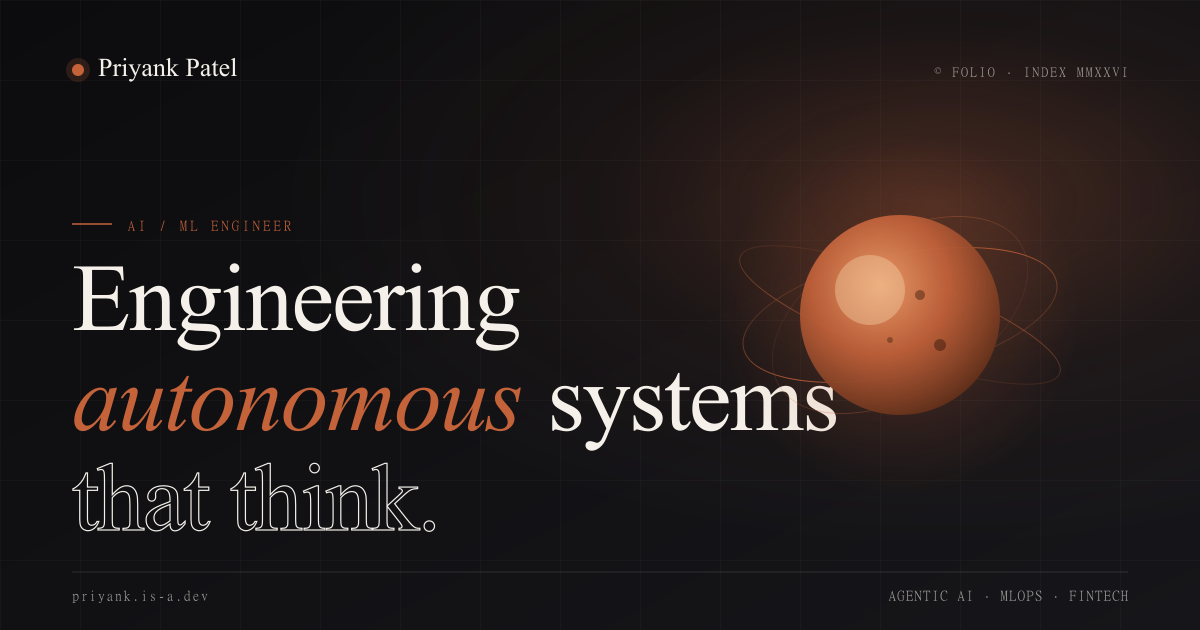
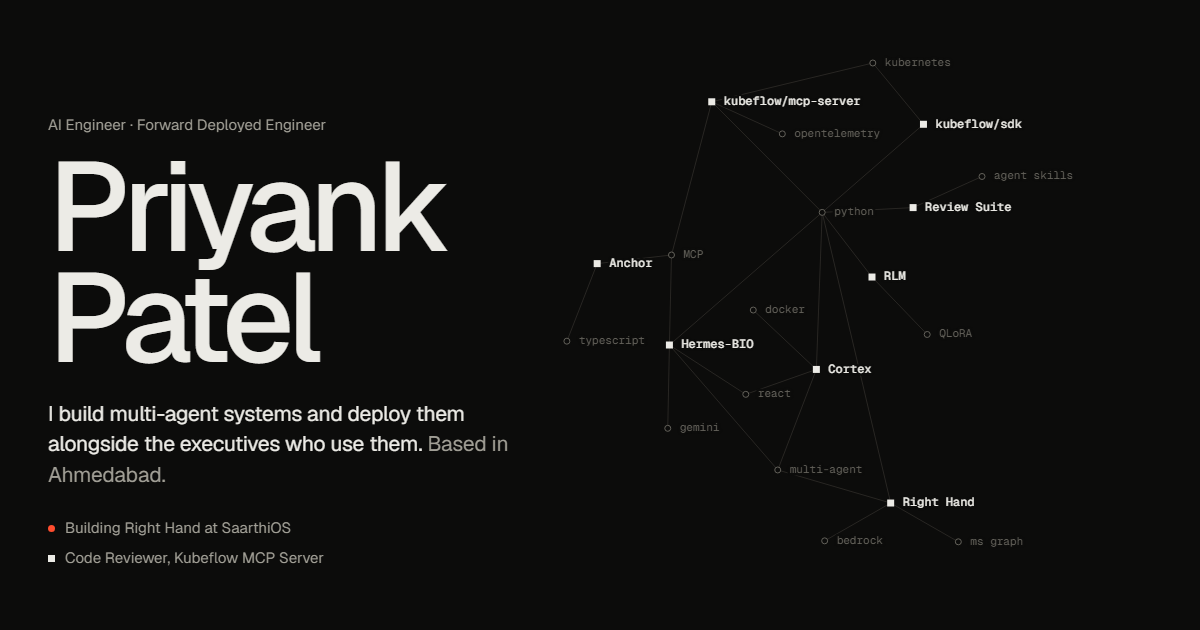
Tighten graph layout and trim copy
- Graph: crossing-free layout for desktop and mobile, label knockouts,
  squares jump to their exact project, pauses off screen
- Mobile: graph sits above the intro instead of behind it
- Open source cut to one paragraph; ACPC removed; Review Suite, Cortex
  and BioAgent added as smaller entries with a link to all repos
- Name decode no longer reflows; focus styles; anchor offsets
- New social preview image from the current hero

diff --git a/index.html b/index.html
@@ -97,7 +97,22 @@ h1{font-weight:500;font-size:clamp(56px,10.5vw,148px);line-height:.88;letter-spa
 .sq{width:7px;height:7px;background:var(--fg)}
 @keyframes ping{0%{box-shadow:0 0 0 0 color-mix(in srgb,var(--red) 60%,transparent)}70%{box-shadow:0 0 0 8px transparent}100%{box-shadow:0 0 0 0 transparent}}
 .hint{position:absolute;right:0;bottom:56px;z-index:2;font-family:var(--mono);font-size:11px;color:var(--faint);text-align:right;line-height:1.7}
-@media (max-width:820px){.hint{display:none}#graph{opacity:.45}}
+@media (max-width:820px){.hint{display:none}.hero{min-height:0;display:block;padding-block:0 48px}#graph{position:relative;height:440px;margin-inline:-8px;width:calc(100% + 16px)}.hero-text{margin-top:4px}}
+h1 .ch{display:inline-block;text-align:center}
+section[id]{scroll-margin-top:64px}
+:focus-visible{outline:2px solid var(--red);outline-offset:3px;border-radius:2px}
+.proj li{transition:background-color .6s}
+.proj li.flash,.more li.flash{background:var(--redsoft)}
+.more-h{font-size:14px;color:var(--faint);margin:36px 0 4px}
+.more{list-style:none;padding:0;margin:0;border-top:1px solid var(--line)}
+.more li{border-bottom:1px solid var(--line);transition:background-color .6s}
+.more a{display:grid;grid-template-columns:150px minmax(0,1fr) 20px;gap:24px;align-items:baseline;padding:14px 0}
+.more b{font-weight:500;font-size:16px;transition:color .2s}
+.more span.d{color:var(--dim);font-size:15px;line-height:1.5}
+.more a:hover b,.more a:hover .arrow{color:var(--red)}
+.all{display:inline-block;margin-top:18px;font-size:14px;color:var(--dim);border-bottom:1px solid var(--line2)}
+.all:hover{color:var(--red);border-color:var(--red)}
+@media (max-width:820px){.more a{grid-template-columns:1fr;gap:4px}}
 section.s{border-top:1px solid var(--line);padding-block:64px;display:grid;grid-template-columns:220px minmax(0,1fr);gap:24px}
 .s-label{font-size:14px;color:var(--faint)}
 .s-label b{display:block;color:var(--fg);font-weight:500;font-size:15px;margin-bottom:2px}
@@ -176,7 +191,7 @@ body{margin:0}
         <a href="#oss"><span class="sq"></span>Code Reviewer, Kubeflow MCP Server</a>
       </div>
     </div>
-    <div class="hint">every node is something I built<br>hover to trace · click to jump</div>
+    <div class="hint">squares are things I built · circles are what they’re built with<br>hover to trace · click a square to jump to it</div>
   </section>
 
   <section class="s" id="work">
@@ -201,27 +216,32 @@ body{margin:0}
     <div class="s-body">
       <h2>Code Reviewer, Kubeflow MCP Server</h2>
       <div class="meta">Kubeflow organization member · <a href="https://github.com/kubeflow/mcp-server" target="_blank" rel="noopener">mcp-server</a> · <a href="https://github.com/kubeflow/sdk" target="_blank" rel="noopener">sdk</a></div>
-      <p>On <b>mcp-server</b> I added OpenTelemetry tracing for tool calls and a confirmation gate before a training job can be modified, capped memory while streaming job logs, fixed runtime-metadata and OpenShift permission bugs, and extended the Kubernetes E2E suite and CI checks.</p>
-      <p>On the <b>SDK</b> I fixed trainer status never reaching <code>TRAINJOB_COMPLETE</code>, and made dataset and model initializers run in parallel so jobs start sooner.</p>
+      <p>I review changes to Kubeflow’s MCP server, which lets AI agents run and manage training jobs on Kubernetes. My own work there and in the Kubeflow SDK is mostly about making those jobs observable and safe to operate.</p>
     </div>
   </section>
 
   <section class="s" id="projects">
     <div class="s-label"><b>Projects</b>Built on my own time</div>
+    <div>
     <ul class="proj">
-      <li><a href="https://anchormem.me/" target="_blank" rel="noopener">
+      <li id="p-anc"><a href="https://anchormem.me/" target="_blank" rel="noopener">
         <div><h3>Anchor</h3><p>A local-first MCP server that gives coding agents shared memory across sessions. Claude Code, Cursor, Cline and Codex start from the same facts and decisions. Stale entries are superseded and secrets are redacted before anything is written.</p><div class="stack">TypeScript · MCP · SQLite FTS5 · npm</div></div>
         <div class="metric"><b>44×</b><span>context compression,<br>100% critical facts kept</span></div><span class="arrow">↗</span></a></li>
-      <li><a href="https://github.com/priyank766/Hermes-BIO" target="_blank" rel="noopener">
+      <li id="p-bio"><a href="https://github.com/priyank766/Hermes-BIO" target="_blank" rel="noopener">
         <div><h3>Hermes-BIO</h3><p>A drug-discovery agent that chains UniProt, OpenTargets, RCSB PDB, AlphaFold DB and ChEMBL through one Gemini function-calling loop. Runs from a CLI, a React workspace, or as an MCP server.</p><div class="stack">FastAPI · Gemini · FastMCP · RDKit · React</div></div>
         <div class="metric"><b>6/6</b><span>textbook targets found,<br>about 38 s each</span></div><span class="arrow">↗</span></a></li>
-      <li><a href="https://priyank766.github.io/RLM/" target="_blank" rel="noopener">
-        <div><h3>RLM</h3><p>Reproduced Recursive Language Models (Zhang et al., 2025) with a 2B model on a 6 GB laptop GPU, then fine-tuned it with QLoRA on its own trajectories, with a Muon vs AdamW ablation.</p><div class="stack">Python · Ollama · Qwen · QLoRA · Muon</div></div>
+      <li id="p-rlm"><a href="https://priyank766.github.io/RLM/" target="_blank" rel="noopener">
+        <div><h3>RLM</h3><p>Reproduced Recursive Language Models (Zhang et al., 2025) with a 2B model on a 6 GB laptop GPU. The document sits in a Python REPL instead of the prompt, and the model writes code to search it and calls itself on the pieces.</p><div class="stack">Python · Ollama · Qwen · QLoRA</div></div>
         <div class="metric"><b>67%</b><span>needle found at 64K,<br>vs 33% standard</span></div><span class="arrow">↗</span></a></li>
-      <li><a href="https://drive.google.com/file/d/12-Fwb-HAAFNL1H2du_D1ZNOQo-NFkEkR/view?usp=sharing" target="_blank" rel="noopener">
-        <div><h3>ACPC Admissions Assistant</h3><p>A trilingual voice and text assistant for Gujarat's B.E./B.Tech admissions, built end to end in one month and presented to state officials.</p><div class="stack">RAG · STT/TTS · FastAPI · React</div></div>
-        <div class="metric"><b>Letter</b><span>of Appreciation from the<br>Commissioner of Technical Education</span></div><span class="arrow">↗</span></a></li>
     </ul>
+    <p class="more-h">Also on GitHub</p>
+    <ul class="more">
+      <li id="p-ors"><a href="https://priyank766.github.io/OpenSource-SKILL/" target="_blank" rel="noopener"><b>Review Suite</b><span class="d">Eight agent skills that review pull requests like a maintainer: read the change closely, score every finding, and post only the few worth a comment.</span><span class="arrow">↗</span></a></li>
+      <li id="p-cortex"><a href="https://github.com/priyank766/Cortex" target="_blank" rel="noopener"><b>Cortex</b><span class="d">An agent workspace that works inside a real project folder, with scoped file access, a Docker-sandboxed shell behind approvals, and every tool call streamed to the UI.</span><span class="arrow">↗</span></a></li>
+      <li id="p-bioagent"><a href="https://github.com/priyank766/BioAgent-ALPHAFOLD" target="_blank" rel="noopener"><b>BioAgent</b><span class="d">A LangGraph research agent that pulls AlphaFold structures, finds binding pockets and runs docking from a plain-language request.</span><span class="arrow">↗</span></a></li>
+    </ul>
+    <a class="all" href="https://github.com/priyank766?tab=repositories" target="_blank" rel="noopener">All repositories ↗</a>
+    </div>
   </section>
 
   <section class="contact" id="contact">
@@ -254,42 +274,48 @@ addEventListener('scroll',()=>{$('#bar').classList.toggle('scrolled',scrollY>10)
   let cur=null;['work','oss','projects','contact'].forEach(id=>{if(document.getElementById(id).getBoundingClientRect().top<innerHeight*.4)cur=id});
   document.querySelectorAll('nav.links a').forEach(a=>a.classList.toggle('on',a.getAttribute('href')==='#'+cur))},{passive:true});
 const nm=$('#name'),finalTxt=nm.textContent;
-if(!reduce){const glyph='01<>/{}[]#*+=_';let f=0;const id=setInterval(()=>{f++;
-  nm.textContent=[...finalTxt].map((c,i)=>c===' '?' ':(i<f/2?c:glyph[(Math.random()*glyph.length)|0])).join('');
-  if(f/2>=finalTxt.length){clearInterval(id);nm.textContent=finalTxt}},28)}
+if(!reduce){const letters=[...finalTxt.replace(/ /g,'')];
+  nm.innerHTML=[...finalTxt].map(c=>c===' '?' ':'<span class="ch">'+c+'</span>').join('');
+  const chs=[...nm.querySelectorAll('.ch')];
+  (document.fonts?document.fonts.ready:Promise.resolve()).then(()=>{
+    chs.forEach(c=>c.style.width=c.getBoundingClientRect().width+'px');
+    const glyph='01<>/{}[]#*+=_';let f=0;const id=setInterval(()=>{f++;
+      chs.forEach((c,i)=>c.textContent=i<f/2?letters[i]:glyph[(Math.random()*glyph.length)|0]);
+      if(f/2>=chs.length){clearInterval(id);nm.textContent=finalTxt}},28)})}
 const toast=m=>{const t=$('#toast');t.textContent=m;t.hidden=false;clearTimeout(toast.t);toast.t=setTimeout(()=>t.hidden=true,1600)};
 const copyMail=()=>{const a='priyank8445@gmail.com';(navigator.clipboard?navigator.clipboard.writeText(a):Promise.reject()).then(()=>toast('Email copied')).catch(()=>{const r=document.createRange();r.selectNodeContents($('#addr'));const s=getSelection();s.removeAllRanges();s.addRange(r);toast('Selected, press Ctrl+C')})};
 $('#copy').onclick=copyMail;
 
 const cv=$('#graph'),g=cv.getContext('2d');
+const D={rh:[.78,.919],kmcp:[.349,.081],ksdk:[.859,.128],anc:[.073,.419],bio:[.247,.589],rlm:[.735,.447],ors:[.834,.302],cortex:[.601,.64],agents:[.508,.85],mcp:[.252,.401],py:[.615,.312],bed:[.621,.998],graph:[.943,1],k8s:[.737,0],ts:[0,.581],ft:[.868,.567],otel:[.519,.148],gem:[.243,.763],docker:[.449,.516],skills:[1,.237],react:[.431,.692]};
+const M={rh:[.45,.854],kmcp:[.512,0],ksdk:[.03,.162],anc:[1,.415],bio:[.652,.615],rlm:[.19,.374],ors:[0,.794],cortex:[.407,.539],agents:[.452,.693],mcp:[.852,.536],py:[.171,.592],bed:[.537,1],graph:[.661,.795],k8s:[.12,.075],ts:[.915,.268],ft:[.244,.22],otel:[.516,.157],gem:[.852,.694],docker:[.419,.381],skills:[.131,.928],react:[.621,.459]};
 const N=[
- {id:'rh',l:'Right Hand',k:'w',to:'#work',x:.70,y:.20},
- {id:'kmcp',l:'kubeflow/mcp-server',k:'w',to:'#oss',x:.88,y:.42},
- {id:'ksdk',l:'kubeflow/sdk',k:'w',to:'#oss',x:.80,y:.70},
- {id:'anc',l:'Anchor',k:'w',to:'#projects',x:.60,y:.52},
- {id:'bio',l:'Hermes-BIO',k:'w',to:'#projects',x:.52,y:.18},
- {id:'rlm',l:'RLM',k:'w',to:'#projects',x:.95,y:.14},
- {id:'acpc',l:'ACPC',k:'w',to:'#projects',x:.64,y:.84},
- {id:'agents',l:'multi-agent',x:.79,y:.06},{id:'mcp',l:'MCP',x:.75,y:.46},{id:'py',l:'python',x:.91,y:.62},
- {id:'bed',l:'bedrock',x:.58,y:.32},{id:'graph',l:'ms graph',x:.86,y:.27},{id:'rag',l:'RAG',x:.54,y:.70},
- {id:'k8s',l:'kubernetes',x:.96,y:.82},{id:'ts',l:'typescript',x:.48,y:.42},{id:'ft',l:'QLoRA',x:.99,y:.32},
- {id:'voice',l:'STT/TTS',x:.76,y:.94},{id:'otel',l:'opentelemetry',x:.70,y:.62},{id:'gem',l:'gemini',x:.44,y:.08}
-];
-const E=[['rh','agents'],['rh','bed'],['rh','graph'],['rh','py'],['kmcp','mcp'],['kmcp','k8s'],['kmcp','py'],['kmcp','otel'],
- ['ksdk','k8s'],['ksdk','py'],['anc','mcp'],['anc','ts'],['bio','agents'],['bio','mcp'],['bio','gem'],['bio','py'],
- ['rlm','ft'],['rlm','py'],['rlm','agents'],['acpc','rag'],['acpc','voice'],['acpc','py'],['rh','rag']];
+ {id:'rh',l:'Right Hand',k:'w',to:'#work'},{id:'kmcp',l:'kubeflow/mcp-server',k:'w',to:'#oss'},{id:'ksdk',l:'kubeflow/sdk',k:'w',to:'#oss'},
+ {id:'anc',l:'Anchor',k:'w',to:'#p-anc'},{id:'bio',l:'Hermes-BIO',k:'w',to:'#p-bio'},{id:'rlm',l:'RLM',k:'w',to:'#p-rlm'},
+ {id:'ors',l:'Review Suite',k:'w',to:'#p-ors'},{id:'cortex',l:'Cortex',k:'w',to:'#p-cortex'},
+ {id:'agents',l:'multi-agent'},{id:'mcp',l:'MCP'},{id:'py',l:'python'},{id:'bed',l:'bedrock'},{id:'graph',l:'ms graph'},{id:'k8s',l:'kubernetes'},
+ {id:'ts',l:'typescript'},{id:'ft',l:'QLoRA'},{id:'otel',l:'opentelemetry'},{id:'gem',l:'gemini'},{id:'docker',l:'docker'},{id:'skills',l:'agent skills'},{id:'react',l:'react'}];
+const E=[['rh','agents'],['rh','bed'],['rh','graph'],['rh','py'],['kmcp','mcp'],['kmcp','k8s'],['kmcp','py'],['kmcp','otel'],['ksdk','k8s'],['ksdk','py'],
+ ['anc','mcp'],['anc','ts'],['bio','agents'],['bio','mcp'],['bio','gem'],['bio','py'],['bio','react'],['rlm','ft'],['rlm','py'],['ors','skills'],['ors','py'],
+ ['cortex','agents'],['cortex','docker'],['cortex','py'],['cortex','react']];
 const byId={};N.forEach(n=>{byId[n.id]=n;n.vx=0;n.vy=0;n.ph=Math.random()*6.28});
 const edges=E.map(([a,b])=>({a:byId[a],b:byId[b],p:[]}));
 let W=0,H=0,mx=-1e4,my=-1e4,hover=null;
 function size(){const r=cv.getBoundingClientRect(),d=Math.min(2,devicePixelRatio||1);W=r.width;H=r.height;cv.width=W*d;cv.height=H*d;g.setTransform(d,0,0,d,0,0);
-  const mobile=W<820;N.forEach(n=>{const hx=mobile?(.04+(n.x-.44)/.56*.78):n.x;n.hx=Math.max(.04,Math.min(.97,hx))*W;n.hy=(mobile?.06+n.y*.5:.08+n.y*.84)*H;if(n.px==null){n.px=n.hx;n.py=n.hy}})}
+  const mobile=W<820;let bx,by,bw,bh;
+  if(mobile){bx=14;by=22;bw=W-14-96;bh=H-44}else{bx=W*.47;by=H*.1;bw=W-bx-170;bh=H*.76}
+  N.forEach(n=>{const q=(mobile?M:D)[n.id];n.hx=bx+q[0]*bw;n.hy=by+q[1]*bh;n.px=n.hx;n.py=n.hy})}
 new ResizeObserver(size).observe(cv);size();
 cv.addEventListener('pointermove',e=>{const r=cv.getBoundingClientRect();mx=e.clientX-r.left;my=e.clientY-r.top});
 cv.addEventListener('pointerleave',()=>{mx=my=-1e4});
-cv.addEventListener('click',()=>{if(hover&&hover.to)document.querySelector(hover.to).scrollIntoView({behavior:reduce?'auto':'smooth'})});
+const jump=h=>{const el=document.querySelector(h);if(!el)return;const li=el.tagName==='LI';
+  el.scrollIntoView({behavior:reduce?'auto':'smooth',block:li?'center':'start'});
+  if(li)setTimeout(()=>{el.classList.add('flash');setTimeout(()=>el.classList.remove('flash'),1200)},500)};
+cv.addEventListener('click',()=>{if(hover&&hover.to)jump(hover.to)});
 const near=new Set();
+let heroVis=true;new IntersectionObserver(es=>{heroVis=es[0].isIntersecting}).observe(cv);
 function frame(t){
-  requestAnimationFrame(frame);if(!W)return;const s=t/1000;g.clearRect(0,0,W,H);
+  requestAnimationFrame(frame);if(!W||!heroVis)return;const s=t/1000;g.clearRect(0,0,W,H);
   hover=null;let best=1600;N.forEach(n=>{const d=(n.px-mx)**2+(n.py-my)**2;if(d<best){best=d;hover=n}});
   cv.style.cursor=hover&&hover.to?'pointer':'default';
   near.clear();if(hover){near.add(hover);edges.forEach(e=>{if(e.a===hover)near.add(e.b);if(e.b===hover)near.add(e.a)})}
@@ -309,7 +335,7 @@ function frame(t){
     if(w){g.fillStyle=hot?C.red:C.fg;g.fillRect(n.px-3.5,n.py-3.5,7,7);if(hot){g.strokeStyle=C.red;g.strokeRect(n.px-8,n.py-8,16,16)}}
     else{g.fillStyle=C.bg;g.strokeStyle=near.has(n)?C.red:C.faint;g.lineWidth=1;g.beginPath();g.arc(n.px,n.py,3,0,7);g.fill();g.stroke()}
     g.font=(w?'500 12px ':'400 11px ')+'"Geist Mono",ui-monospace,monospace';g.fillStyle=hot?C.red:(w?C.fg:C.faint);g.textBaseline='middle';
-    const tw=g.measureText(n.l).width,left=n.px+12+tw>W-4;g.fillText(n.l,left?n.px-12-tw:n.px+12,n.py)});
+    const tw=g.measureText(n.l).width,left=n.px+12+tw>W-4,lx=left?n.px-12-tw:n.px+12;g.strokeStyle=C.bg;g.lineWidth=5;g.lineJoin='round';g.strokeText(n.l,lx,n.py);g.fillText(n.l,lx,n.py)});
   g.globalAlpha=1}
 requestAnimationFrame(frame);
 
@@ -319,7 +345,7 @@ const items=[
  ['Work · Right Hand','section',go('#work')],['Open source · Kubeflow','section',go('#oss')],['Projects','section',go('#projects')],['Contact','section',go('#contact')],
  ['Copy email','action',copyMail],['Toggle theme','action',()=>$('#theme').click()],
  ['GitHub','link',ext('https://github.com/priyank766')],['X','link',ext('https://x.com/priyank766')],['LinkedIn','link',ext('https://www.linkedin.com/in/priyank766/')],
- ['Anchor','link',ext('https://anchormem.me/')],['Hermes-BIO','link',ext('https://github.com/priyank766/Hermes-BIO')],['RLM write-up','link',ext('https://priyank766.github.io/RLM/')],
+ ['Anchor','link',ext('https://anchormem.me/')],['Hermes-BIO','link',ext('https://github.com/priyank766/Hermes-BIO')],['RLM write-up','link',ext('https://priyank766.github.io/RLM/')],['Review Suite','link',ext('https://priyank766.github.io/OpenSource-SKILL/')],['Cortex','link',ext('https://github.com/priyank766/Cortex')],
  ['SaarthiOS','link',ext('https://saarthios.com/')]];
 const bg=$('#palBg'),inp=$('#palIn'),ul=$('#palList');let list=[],sel=0;
 const render=()=>{const q=inp.value.toLowerCase().trim();list=items.filter(i=>i[0].toLowerCase().includes(q));sel=Math.min(sel,Math.max(0,list.length-1));
